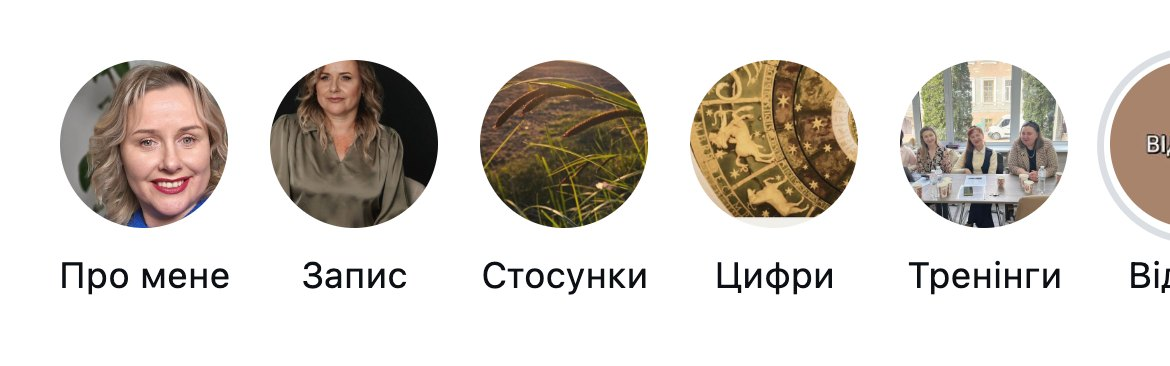
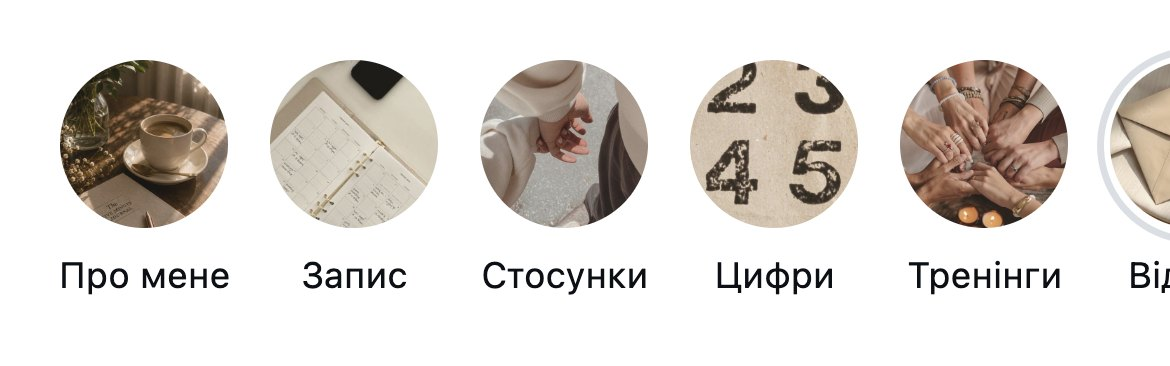
Хайлайти: асоціативні кадри в одному стилі; карусель на нормальному фото

Changed region(s): [[0.0308, 0.1503, 0.5538, 0.6311], [0.7692, 0.1503, 1.0, 0.6311], [0.5846, 0.1503, 0.7385, 0.6311]]

diff --git a/index.html b/index.html
@@ -199,7 +199,7 @@ a.shot{border-color:#d6d6d6;box-shadow:0 10px 26px rgba(0,0,0,.10)}
         <figure><figcaption class="lab now">Як зараз</figcaption><a class="shot" href="img/prof_before.jpg" target="_blank"><img src="img/c_hl_now.jpg" alt="Як зараз: Хайлайти по шляху клієнтки" loading="lazy"></a></figure>
         <figure><figcaption class="lab todo">Як варто</figcaption><a class="shot" href="img/prof_after_hl.jpg" target="_blank"><img src="img/c_hl_should.jpg" alt="Як варто: Хайлайти по шляху клієнтки" loading="lazy"></a></figure>
       </div>
-      <p class="note">Зараз один хайлайт. Варто шість живих кадрів без рамок і написів, як у сильних нумерологів: Про мене, Запис, Стосунки, Цифри, Тренінги, Відгуки.</p>
+      <p class="note">Зараз один хайлайт. Варто шість асоціативних кадрів в одному теплому стилі, без рамок і написів: Про мене, Запис, Стосунки, Цифри, Тренінги, Відгуки.</p>
     </div>
     <div class="pair" id="p07">
       <div class="phead"><span class="num">07</span><h3>Стрічка: рілси й каруселі по черзі</h3></div>
